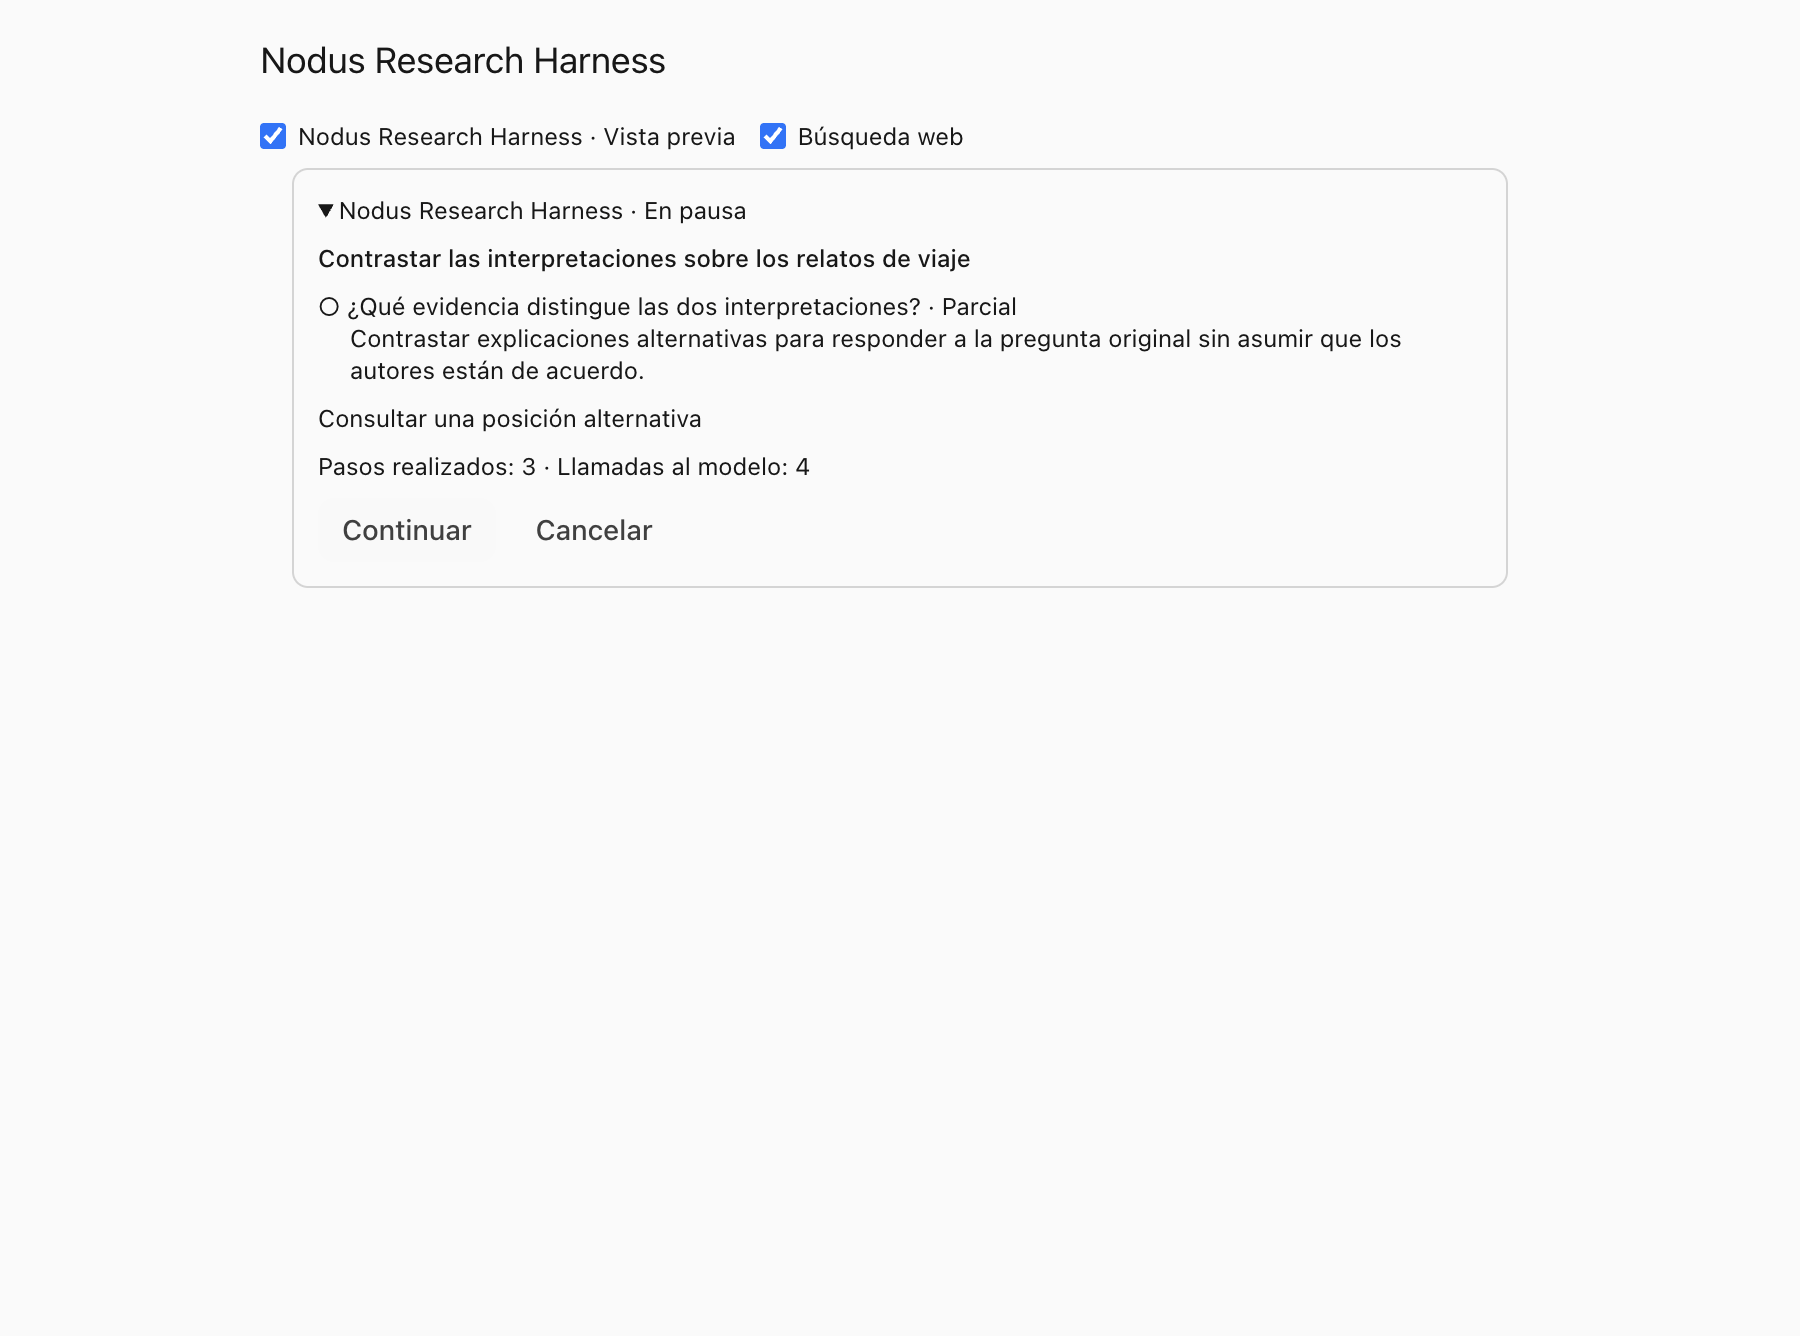
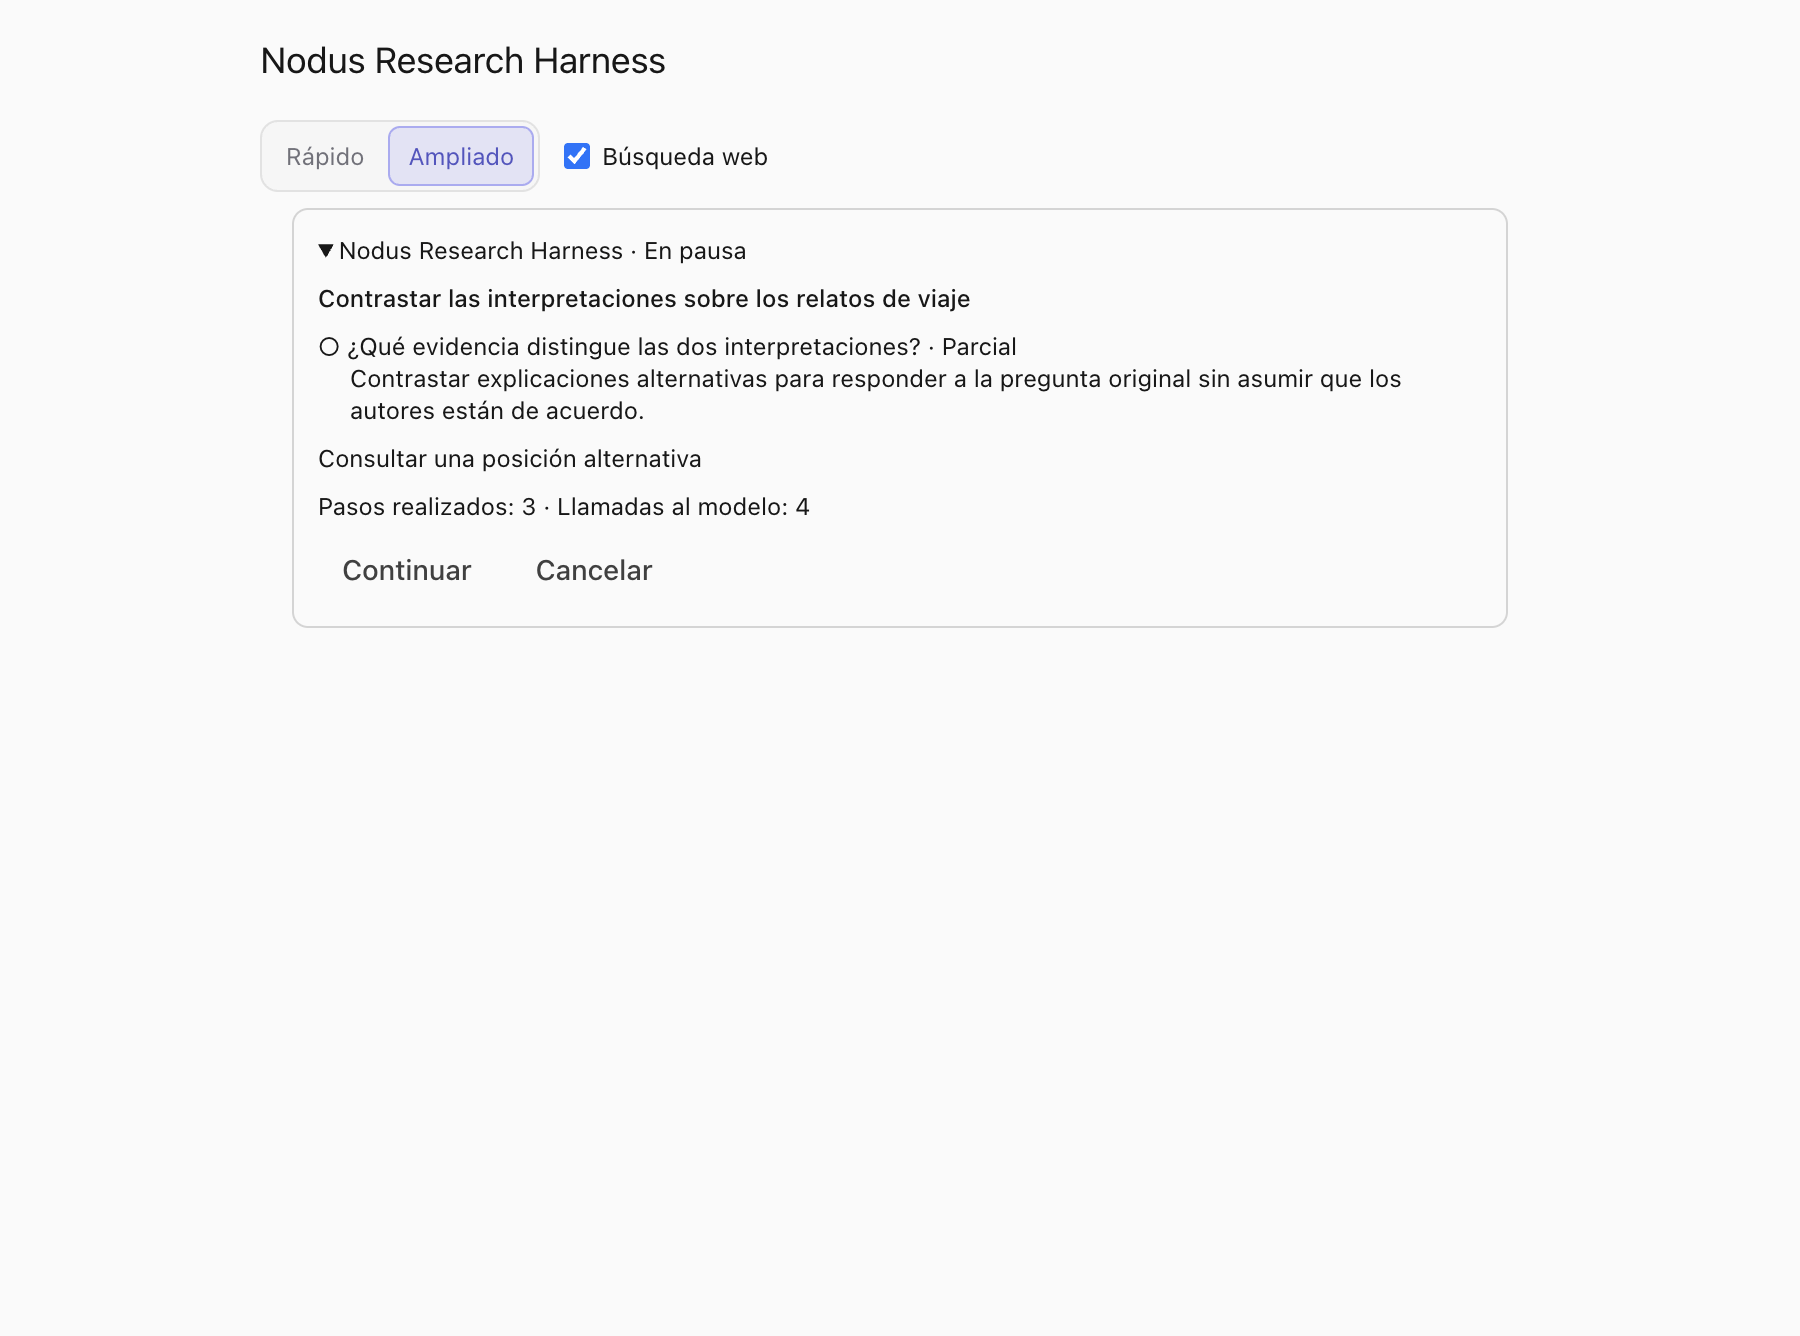
Preserve research evidence in small windows and document paired evaluation

Changed region(s): [[0.1244, 0.0921, 0.7778, 0.4603]]

diff --git a/electron/ai/researchAssistant.ts b/electron/ai/researchAssistant.ts
@@ -1128,8 +1128,14 @@ async function buildResearchChatPrompt(request: ResearchChatRequest, skills = en
       maxTokens: generationOptions.maxTokens,
       englishImagePrompts: skills.some(skill => skillHasCapability(skill, 'image')),
     });
+    // The fixed instructions/history can leave less room than the initially
+    // requested output ceiling, especially with skills on a small local model.
+    // Keep the original evidence so a lower output ceiling can recover it rather
+    // than sending an empty context after the first fit exhausted every section.
+    const recoverableContext = currentResearchHarness() && generationOptions.maxTokens > 512
+      && researchRequestUpperBound(fitInputs()) > window ? structuredClone(context) : null;
     const serializeUserBeforeFit = researchContextTraceEnabled() ? serializeUser() + (attachments?.text ?? '') : '';
-    const fitted = enforceContextBudget(context, window, () => researchRequestUpperBound(fitInputs()), researchContextTraceEnabled() ? receipt => {
+    const fit = () => enforceContextBudget(context, window, () => researchRequestUpperBound(fitInputs()), researchContextTraceEnabled() ? receipt => {
       const fittedUser = serializeUser() + (attachments?.text ?? '');
       recordResearchContextReceipt({
         type: 'research-context-final-fit',
@@ -1151,6 +1157,15 @@ async function buildResearchChatPrompt(request: ResearchChatRequest, skills = en
         userAfter: receiptHash(fittedUser),
       });
     } : undefined, { passageQueries });
+    let fitted = fit();
+    const fixedOverflow = researchRequestUpperBound(fitInputs()) - window;
+    if (recoverableContext && fixedOverflow > 0) {
+      // Output is an upper allowance, not a quota. Reduce it only when even the
+      // stripped request cannot fit, leaving up to 4k bytes for whole evidence.
+      generationOptions.maxTokens = Math.max(512, generationOptions.maxTokens - fixedOverflow - 4096);
+      context = recoverableContext;
+      fitted = fit();
+    }
     if (fitted.truncated) stats = { ...stats, truncated: true,
       contextChars: JSON.stringify(context).length, passages: Array.isArray(context.pasajes_relevantes) ? context.pasajes_relevantes.length : 0,
       works: Array.isArray(context.obras) ? context.obras.length : 0, documents: Array.isArray(context.obras) ? context.obras.length : 0 };

diff --git a/src/components/ResearchExplorationControl.tsx b/src/components/ResearchExplorationControl.tsx
@@ -29,8 +29,9 @@ function ExplorationOption({ mode, active, setActive, description, children }: {
       const above = window.innerHeight - rect.bottom < panel.offsetHeight + 16 && rect.top > panel.offsetHeight + 16;
       setLight(!!element.closest('.light, .nodi-theme-light'));
       setStyle({ width, left: Math.max(12, Math.min(rect.left + rect.width / 2 - width / 2, window.innerWidth - width - 12)),
-        top: above ? rect.top - panel.offsetHeight - 8 : rect.bottom + 8,
-        '--research-exploration-accent': getComputedStyle(element).getPropertyValue('--research-exploration-accent').trim() } as CSSProperties);
+        top: Math.max(12, Math.min(above ? rect.top - panel.offsetHeight - 8 : rect.bottom + 8, window.innerHeight - panel.offsetHeight - 12)),
+        '--research-exploration-accent': document.documentElement.classList.contains('theme-active') ? 'var(--a-500)'
+          : getComputedStyle(element).getPropertyValue('--research-exploration-accent').trim() } as CSSProperties);
     };
     place();
     const escape = (event: KeyboardEvent) => { if (event.key === 'Escape') { clearTimeout(timer.current); setActive(null); } };

diff --git a/src/components/researchExploration.css b/src/components/researchExploration.css
@@ -11,5 +11,5 @@
 
 html.theme-active .research-exploration-control { --research-exploration-accent: var(--a-500); }
 
-.research-exploration-tooltip { position: fixed; z-index: 10100; padding: 10px 12px; border-radius: 10px; border: 1px solid color-mix(in srgb, var(--research-exploration-accent) 35%, transparent); background: #202126; color: #e4e4e7; box-shadow: 0 8px 28px #0004; font-size: 12px; line-height: 1.5; font-weight: 400; text-align: left; white-space: normal; }
+.research-exploration-tooltip { position: fixed; z-index: 10100; width: min(300px, calc(100vw - 24px)); padding: 10px 12px; border-radius: 10px; border: 1px solid color-mix(in srgb, var(--research-exploration-accent) 35%, transparent); background: #202126; color: #e4e4e7; box-shadow: 0 8px 28px #0004; font-size: 12px; line-height: 1.5; font-weight: 400; text-align: left; white-space: normal; }
 .research-exploration-tooltip.is-light { background: #fff; color: #27272a; box-shadow: 0 8px 28px #0002; }

diff --git a/docs/research-harness.md b/docs/research-harness.md
@@ -12,7 +12,10 @@ V1 shares one coordinator and the same source/citation contracts across two prof
 **Fast** (`fast`) and **Expanded** (`expanded`). The two-option switch is directly
 available in the Chat header and in Dictionary, Deep Research and Immersion. It uses
 the active theme accent, supports native radio keyboard navigation, and is translated
-into all twelve interface languages. There is no range slider or popover.
+into all twelve interface languages. Descriptive tooltips open on hover or keyboard
+focus, explain the scope/time/resource tradeoff, fit narrow windows and dismiss on
+Escape. There is no range slider or selection popover. The System prompt trigger
+uses the same 36-pixel height and keeps its label on one line.
 
 Chat and Dictionary start on Fast; Deep Research and Immersion start on Expanded.
 Choices are remembered separately per surface, across vaults, in
@@ -157,7 +160,7 @@ resume their previous audit policy silently.
 | Immersion | Retains curriculum/panorama/stations/contrasts/exam and the existing structural/literal-citation handling. Can investigate each station before writing, without an additional field-by-field model audit. Prepared inputs and generated phases survive continuation. |
 | Dictionary | Explicit investigation and generation use the same agenda, related-query planning, original readers, web grant, accounting and checkpoints. Its own adapter pins term/aliases, editorial focus, source scope, language and detail; it retains Dictionary's existing definition, attribution, citation, version and author-card handling. No additional review chain is introduced. Background incremental scans stay local. |
 
-Dictionary exposes the same opt-in and execution panel. Each run belongs to one
+Dictionary exposes the same profile switch and execution panel. Each run belongs to one
 entry, including research-only scans; entry filters are applied before the saved
 run list is bounded. Generation continuation uses the same per-entry queue and
 broadcasts as initial work. A user pause is shown as paused rather than failed,
@@ -216,7 +219,7 @@ The harness fixtures use temporary databases, fake providers and no network. The
 cover deduplication/priority, schema boundaries, forged evidence IDs, provenance,
 web-informed scheduling, late web evidence, interrupted budget accounting,
 completed-stage reuse, context revocation, ownership and deletion. The Electron UI
-fixture checks opt-in/web controls, pause/continue, terminal state, console errors
+fixture checks profile/web controls, pause/continue, terminal state, console errors
 and narrow/light/dark layouts. Screenshots are written under ignored
 `artifacts/research-harness/`.
 
@@ -287,8 +290,9 @@ the following shape (these are field examples, not measured results):
 ```
 
 `blindPreference` is `legacy`, `v1` or `tie`. A no-regression row is only a screening
-result. Promote v1 only after reviewing all surfaces, real answer preference and
-the observed latency/cost tradeoff. Until then the default stays legacy.
+result. Default changes require reviewing all surfaces, real answer preference and
+the observed latency/cost tradeoff. The current product uses V1 with the two profiles
+described above; explicit legacy requests remain available for comparison/rollback.
 
 ## Source-free turns and later lookup requests
 
@@ -394,6 +398,58 @@ presentation does not enlarge the source grant. Both original and presented
 assistant prose are registered for notebook follow-up provenance.
 
 ## Latest targeted validation
+
+A frozen comparison at `95e7b43c` repeated the **ten original Research Chat
+questions**, once in each profile, alternating generation order and counterbalancing
+the masked A/B labels. All twenty answers used DeepSeek Flash, Standard thinking,
+the same source/context choices, web off and optional verification off. The two
+profiles intentionally use different investigation allowances. No candidate was
+rewritten or regenerated after judging.
+
+| Profile | Blind preferences | Median time | Generation USD, ten answers | LLM calls |
+| --- | ---: | ---: | ---: | ---: |
+| Fast | 6 | 30.85 s | 0.07640 | 57 |
+| Expanded | 4 | 41.59 s | 0.14434 | 93 |
+
+Fast used **47.1% less generation accounting** and had a **25.8% lower median
+latency** in this sample, excluding BGE. The masked Gemini 3.8 Flash judge, via
+OpenRouter, received complete retrieved records and actual backend operations,
+losslessly pooling exact duplicates without truncating answers or evidence. Four
+counterbalanced controls passed before the votes: identical substance tied on
+content regardless of headings, and factual corruption lost in either position.
+Two judgments needed an exact-quotation anchor correction with their semantic
+verdict frozen; all ten receipts were usable. Four initial routing failures produced
+no votes and are retained separately. Removing an unsupported transport parameter
+allowed the same model/protocol to run; no semantic selection took place.
+
+The judge rated Fast nine pass/one limited and Expanded eight pass/two fail.
+Expanded supplied better primary-source coverage and more complete multi-part
+comparisons in several cases. Its two failures involved a misread traveler/tourist
+referent and a secondary-quotation attribution; source inspection confirmed these
+material objections. Fast's limited answer omitted one requested facet. This is
+evidence for offering both profiles, not a claim of universal superiority or
+infallible answers. All actual citation targets resolved; the work filter and
+indexed-only grants were respected. No answer introduced headings. Corpus row
+counts and streaming hashes were unchanged.
+
+Generation plus judging accounted for USD **0.41924**, with no new unknown
+reservations and all historical charges/reservations retained. Temporary credential
+copies and the lease were removed. The provider totals stayed inside the previously
+authorized cumulative ceilings. Private answers, sources and packets remain outside
+Git; the local paired report keeps all twenty answers and each original verdict.
+
+Subsequent integration checks removed a duplicate operational manifest from the
+Chat writer prompt (the AI client still injects it once), avoiding wasted context on
+small local models. An empty-corpus/no-web turn now avoids an unnecessary supervisor
+call. When fixed instructions/history leave no room even after context pruning,
+Chat reduces its initial output ceiling and refits the original evidence rather
+than sending an empty context or failing needlessly. These later changes have functional/native integration coverage; the paid
+preference numbers above identify their measured commit and were not relabeled as
+a final-head benchmark. The actual production controls passed 28 UI cases across
+four surfaces, light/dark, narrow screens, twelve languages, keyboard help and live
+theme changes.
+
+### Earlier development comparisons
 
 A subsequent frozen five-question comparison used ten fresh native answers at
 commit `a8743222`, DeepSeek Flash, standard effort, web off and optional verification
@@ -601,7 +657,7 @@ BGE is excluded as requested. These ledger totals are conservative bounds, not
 provider invoices. Temporary encrypted credential copies are removed by each
 paid parent after its child exits; a parent lease prevents overlapping ownership.
 No private answer, source excerpt, vault identifier, credential or report is
-published here. V1 remains opt-in pending stronger evidence across all surfaces.
+published here. At that development stage V1 remained opt-in; the profile release described above promotes V1 to the normal default while retaining explicit legacy compatibility.
 
 ## Private campaign tooling
 
